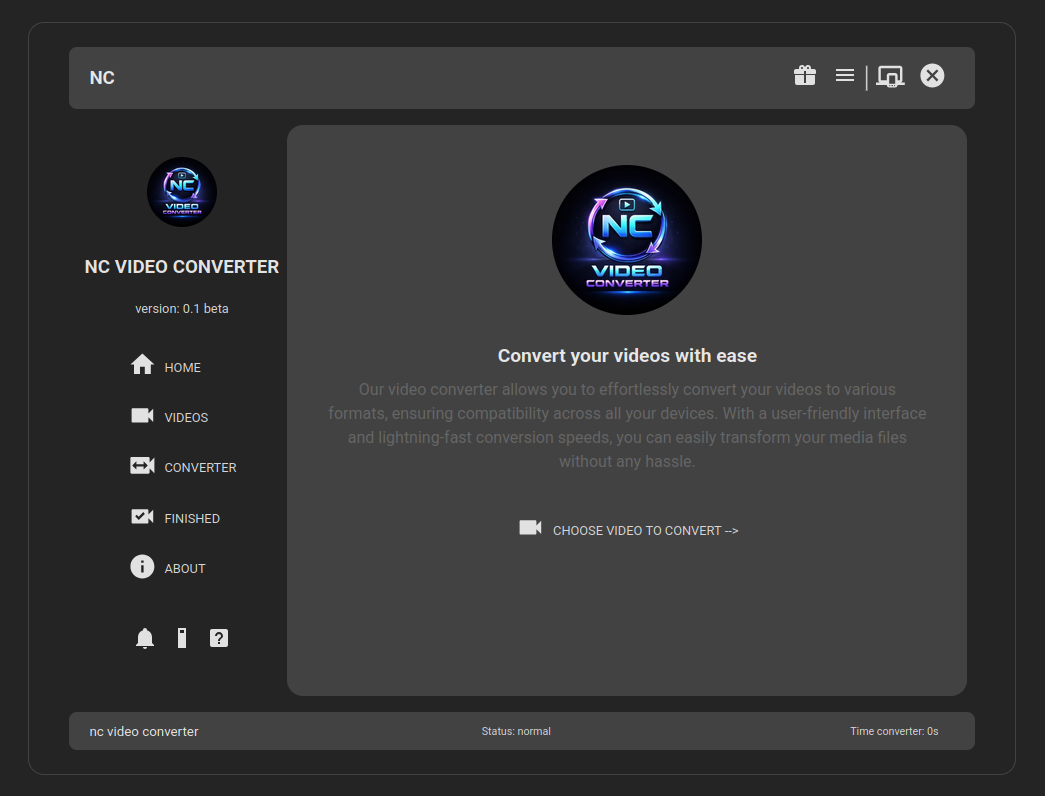
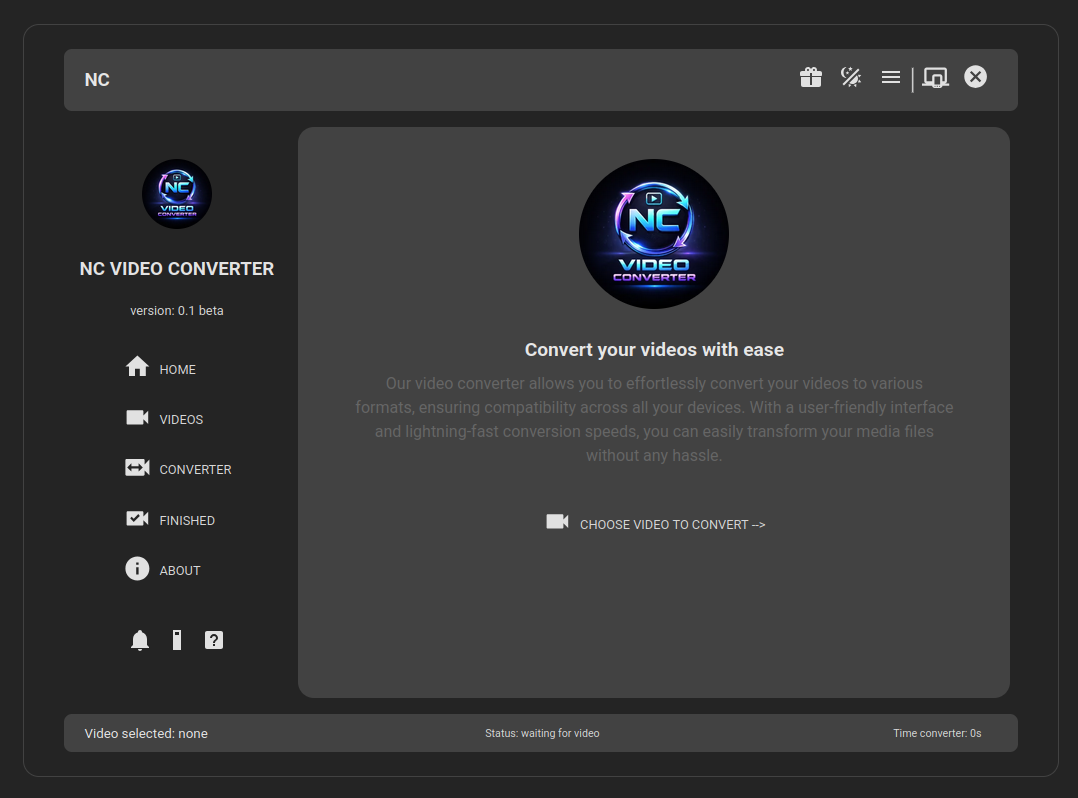
NEW: Frontend NC Video Converter: Layout Select Videos Desktop 70%

diff --git a/frontend-nc-video-converter/src/views/page-videos/sections/section-videos--desktop.ts b/frontend-nc-video-converter/src/views/page-videos/sections/section-videos--desktop.ts
@@ -7,24 +7,158 @@ export class SectionVideosDesktop extends LitElement {
 
     render() {
         return html`
-                <div class="header">
-                    <div class="header-navleft">
-                        <a class='menu__footer--item fitem'>
+            <div class="section">
+                <div class="section__header">
+                    <div class='section__header--title title'>
+                        <h4>Search folder videos</h4>                      
+                    </div>
+
+                    <div class='section__header--actions actions'>
+                        <div class='menu__footer--item fitem'>
                             <div>
-                                <svg class="ficon" viewBox="0 0 24 24"><title>Notifications</title><path d="M21,19V20H3V19L5,17V11C5,7.9 7.03,5.17 10,4.29C10,4.19 10,4.1 10,4A2,2 0 0,1 12,2A2,2 0 0,1 14,4C14,4.1 14,4.19 14,4.29C16.97,5.17 19,7.9 19,11V17L21,19M14,21A2,2 0 0,1 12,23A2,2 0 0,1 10,21" /></svg>
+                                <svg class="icon" viewBox="0 0 24 24"><title>folder-search</title><path d="M16.5,12C19,12 21,14 21,16.5C21,17.38 20.75,18.21 20.31,18.9L23.39,22L22,23.39L18.88,20.32C18.19,20.75 17.37,21 16.5,21C14,21 12,19 12,16.5C12,14 14,12 16.5,12M16.5,14A2.5,2.5 0 0,0 14,16.5A2.5,2.5 0 0,0 16.5,19A2.5,2.5 0 0,0 19,16.5A2.5,2.5 0 0,0 16.5,14M9,4L11,6H19A2,2 0 0,1 21,8V11.81C19.83,10.69 18.25,10 16.5,10A6.5,6.5 0 0,0 10,16.5C10,17.79 10.37,19 11,20H3C1.89,20 1,19.1 1,18V6C1,4.89 1.89,4 3,4H9Z" /></svg>
                             </div>
                             <!-- <div><small>Notifications</small></div> -->
-                        </a>
+                        </div>
+
+                        <div>
+                            <input class='search-input' type="text" placeholder="Search folder videos..." />
+                        </div>
+
+                        <div class='menu__footer--item fitem'>
+                            <div>
+                                <svg class="icon" viewBox="0 0 24 24"><title>plus</title><path d="M19,13H13V19H11V13H5V11H11V5H13V11H19V13Z" /></svg>
+                            </div>
+                            <!-- <div><small>Add Video</small></div> -->
+                        </div>
                     </div>
                     
-                    <div class="header-navright">
+                </div>
+                
+                    
+                <div class="section__body body">
+                    <table>
+                        <tr>
+                            <th>Name</th>
+                            <th>Size</th>
+                            <th>Duration</th>
+                        </tr>
+                    </table>
+                </div>
 
+                <div class="section__footer">
+                    <div class="section__footer--infoleft infoleft">
+                        <p>Nombre: </p>
+                        <p>Tipo: </p>
+                        <p>Empaquetado: </p>
+                        <p>Formato: </p>
                     </div>
 
-                    <div>
+                    <hr class="l-vertical" />
 
+                    <div class="section__footer--inforight inforight">
+                        <p>Resolucion: </p>
+                        <p>FPS: </p>
+                        <p>Lut: </p>
+                        <p>Otro: </p>
                     </div>
                 </div>
+            </div>
         `
+    }
+
+    static get styles() {
+            return css`
+                :host {
+                    margin: 0;
+                    padding: 0;
+                }
+
+                /* GENERALES */
+
+                p {
+                    font-size: 0.8rem;
+                }
+
+                .icon {
+                    width: 1.5rem;
+                    fill: #e1e1e1;
+                }
+
+                .section {
+                    display: grid;
+                    gap: 1rem;
+                }
+
+                .l-vertical {
+                    width: .2px;
+                    height: 3rem;
+                    background-color: #ccc;
+                }
+
+
+                /* HEADER */
+                .section__header {
+                    display: block;
+                    justify-content: center;
+                    align-items: center;
+                    text-align: center; 
+                }
+
+                .actions {
+                    display: flex;
+                    justify-content: center;
+                    align-items: center;
+                    gap: 0.5rem;
+                }
+
+                .search-input {
+                    padding: 0.5rem;
+                    border-radius: 0.5rem;
+                    border: none;
+                    background-color: #242424;
+                    color: #e1e1e1;
+                }
+
+                /* BODY */
+                .section__body {
+                    display: block;
+                    justify-content: center;
+                    align-items: center;
+                    text-align: center; 
+                    width: 45rem;
+                    height: 15rem;
+                    padding: 1rem;
+
+                    border-style: solid;
+                    border-width: 0.1rem;
+                    border-radius: 1rem;
+                    border-color: #242424;
+                }
+
+                /* FOOTER */
+                .section__footer {
+                    display: flex;
+                    justify-content: center;
+                    align-items: center;
+                    padding: .3rem 1rem;
+                    gap: 0.5rem;
+
+                    border-style: solid;
+                    border-width: 0.1rem;
+                    border-radius: 1rem;
+                    border-color: #242424;
+                }
+
+                .infoleft {
+                    /* background-color: yellow; */
+                }
+
+                .inforight {
+                    text-align: left;
+                    /* background-color: violet; */
+                }
+
+            `
     }
 }

diff --git a/frontend-nc-video-converter/src/views/bars/top-bar/top-bar-desktop.ts b/frontend-nc-video-converter/src/views/bars/top-bar/top-bar-desktop.ts
@@ -30,6 +30,13 @@ export class TopBarDesktop extends LitElement {
 
                         <a class='menu__nav--nav--item item' href='/about'>
                             <div>
+                                <!-- <svg class="icon" viewBox="0 0 24 24"><title>brightness-6</title><path d="M12,18V6A6,6 0 0,1 18,12A6,6 0 0,1 12,18M20,15.31L23.31,12L20,8.69V4H15.31L12,0.69L8.69,4H4V8.69L0.69,12L4,15.31V20H8.69L12,23.31L15.31,20H20V15.31Z" /></svg> -->
+                                <svg class="icon" viewBox="0 0 24 24"><title>theme-light-dark</title><path d="M7.5,2C5.71,3.15 4.5,5.18 4.5,7.5C4.5,9.82 5.71,11.85 7.53,13C4.46,13 2,10.54 2,7.5A5.5,5.5 0 0,1 7.5,2M19.07,3.5L20.5,4.93L4.93,20.5L3.5,19.07L19.07,3.5M12.89,5.93L11.41,5L9.97,6L10.39,4.3L9,3.24L10.75,3.12L11.33,1.47L12,3.1L13.73,3.13L12.38,4.26L12.89,5.93M9.59,9.54L8.43,8.81L7.31,9.59L7.65,8.27L6.56,7.44L7.92,7.35L8.37,6.06L8.88,7.33L10.24,7.36L9.19,8.23L9.59,9.54M19,13.5A5.5,5.5 0 0,1 13.5,19C12.28,19 11.15,18.6 10.24,17.93L17.93,10.24C18.6,11.15 19,12.28 19,13.5M14.6,20.08L17.37,18.93L17.13,22.28L14.6,20.08M18.93,17.38L20.08,14.61L22.28,17.15L18.93,17.38M20.08,12.42L18.94,9.64L22.28,9.88L20.08,12.42M9.63,18.93L12.4,20.08L9.87,22.27L9.63,18.93Z" /></svg>
+                            </div>
+                        </a>
+
+                        <a class='menu__nav--nav--item item' href='/about'>
+                            <div>
                                 <svg class="icon" viewBox="0 0 24 24"><title>menu</title><path d="M3,6H21V8H3V6M3,11H21V13H3V11M3,16H21V18H3V16Z" /></svg>
                             </div>
                         </a>
@@ -102,7 +109,7 @@ export class TopBarDesktop extends LitElement {
             }
 
             .ficon {
-                width: 1.8rem;
+                width: 1.7rem;
                 fill: #e1e1e1;
             }
 

diff --git a/frontend-nc-video-converter/src/views/bars/bottom-bar/bottom-bar-desktop.ts b/frontend-nc-video-converter/src/views/bars/bottom-bar/bottom-bar-desktop.ts
@@ -14,7 +14,7 @@ export class BottomBarDesktop extends LitElement {
                     <!-- <div>
                         <img class='logo' src="${logo}" alt="Logo" width="70">
                     </div> -->
-                    <small>nc video converter</small>
+                    <small>Video selected: none</small>
                 </div>
 
                 <!-- <hr class="l-vertical" /> -->
@@ -23,7 +23,7 @@ export class BottomBarDesktop extends LitElement {
                     <nav class='menu__nav--nav nav'>
 
                         <a class='menu__nav--nav--item item' href='/finished'>
-                            <small>Status: normal</small>
+                            <small>Status: waiting for video</small>
                         </a>
                     </nav>
                 </div>

diff --git a/frontend-nc-video-converter/src/views/page-videos/page-videos-desktop.ts b/frontend-nc-video-converter/src/views/page-videos/page-videos-desktop.ts
@@ -4,14 +4,13 @@ import { customElement } from 'lit/decorators.js'
 
 // SECTIONS
 import './sections/section-videos--desktop'
-import './sections/section-videos-mobile'
 
 @customElement('page-videos-desktop')
 export class PageVideosDesktop extends LitElement {
 
     render() {
         return html`
-                <p>Page videos desktop</p>
+            <section-videos-desktop></section-videos-desktop>
         `
     }
 }

diff --git a/frontend-nc-video-converter/src/layouts/main-layout.ts b/frontend-nc-video-converter/src/layouts/main-layout.ts
@@ -89,11 +89,12 @@ export class MainLayout extends LitElement {
                 display: flex;
                 border-radius: .5rem;
                 padding: .5rem;
+                gap: 1rem;
             }
 
             .content {
                 border-radius: 1rem;
-                padding: .5rem;
+                padding: 0 1.5rem;
                 background-color: #424242;
             }
 

diff --git a/README.md b/README.md
@@ -1,11 +1,22 @@
 # NC VIDEO CONVERTER
 - Aplicativo convertidor de video desarrollado con Web Components, Node, Rust, WebAssembly y la libreria FFmpeg 
 
+<br><hr>
+
 ## TECNOLOGIAS
 * Frontend: Web Components (LIT)
 * Backend: NODE, RUST
 * WebAssembly
 * Libreria FFmpeg
 
-<hr>
+<br><hr>
+
+### Home
+
 <img src='./architecture/captures/nc-video-converter-home-01.png'>
+
+
+<br><hr>
+
+### Select folder video
+<img src='./architecture/captures/nc-video-converter-videos-01.png'>
